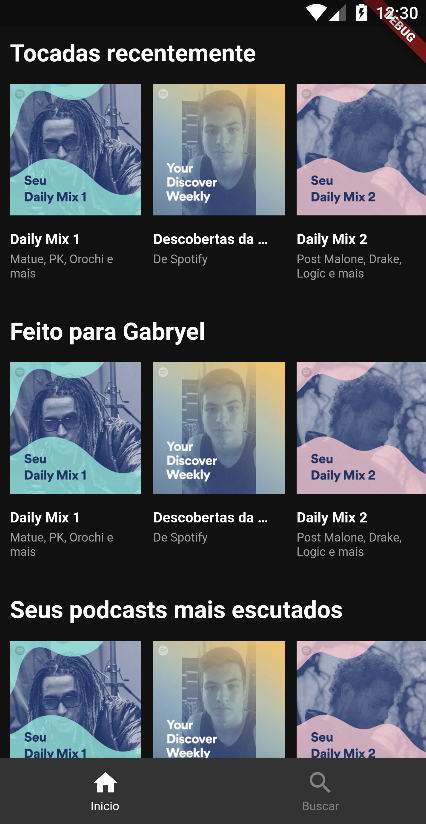
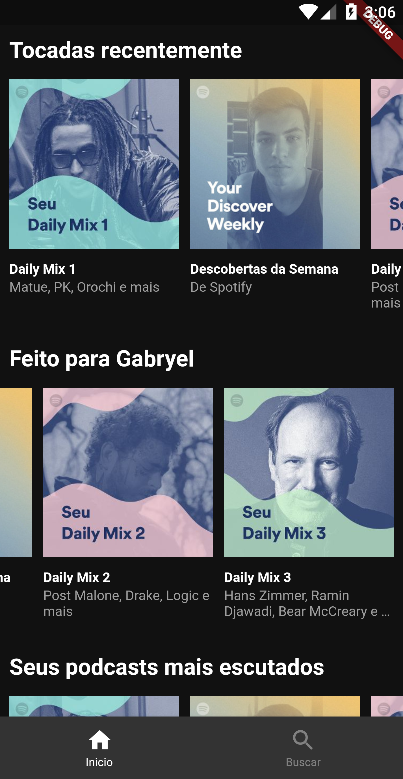
Changing album title fontSize and image width and height

diff --git a/lib/src/widgets/album_card.dart b/lib/src/widgets/album_card.dart
@@ -12,7 +12,7 @@ class AlbumCard extends StatelessWidget {
   @override
   Widget build(BuildContext context) {
     return Container(
-      width: 120,
+      width: 160,
       child: Padding(
         padding: const EdgeInsets.only(right: 10),
         child: Column(
@@ -20,11 +20,11 @@ class AlbumCard extends StatelessWidget {
           children: <Widget>[
             Image.asset(
               album.imageUrl,
-              height: 120,
-              width: 120,
+              height: 160,
+              width: 160,
             ),
             SizedBox(
-              height: 8,
+              height: 6,
             ),
             Text(
               album.title,
@@ -33,7 +33,7 @@ class AlbumCard extends StatelessWidget {
               overflow: TextOverflow.ellipsis,
             ),
             SizedBox(
-              height: 4,
+              height: 2,
             ),
             Text(
               album.description,
@@ -56,5 +56,5 @@ const _albumTitleStyle = TextStyle(
 
 const _albumDescriptionStyle = TextStyle(
   color: Colors.grey,
-  fontSize: 10,
+  fontSize: 12,
 );

diff --git a/lib/src/screens/home_screen.dart b/lib/src/screens/home_screen.dart
@@ -24,7 +24,7 @@ class HomeScreen extends StatelessWidget {
                 ),
               ),
               Container(
-                height: 190,
+                height: 230,
                 child: ListView.builder(
                   padding: EdgeInsets.only(left: 10),
                   scrollDirection: Axis.horizontal,
